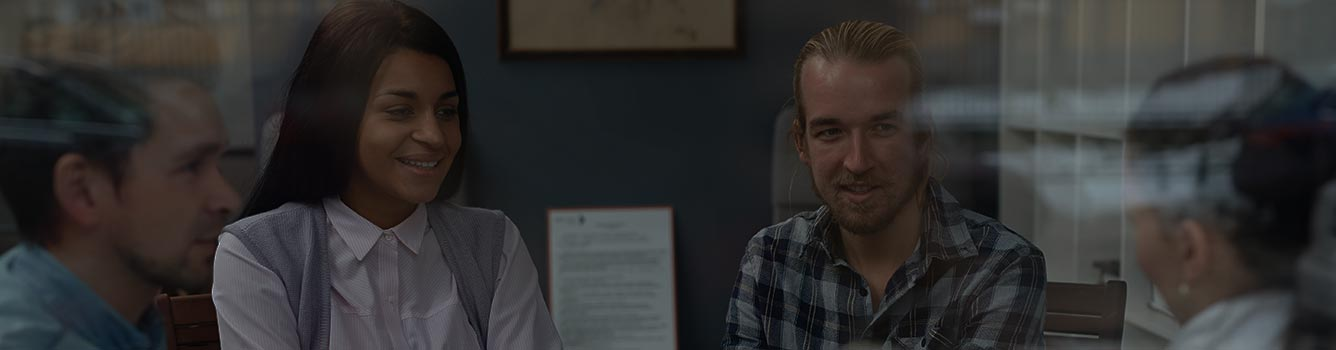
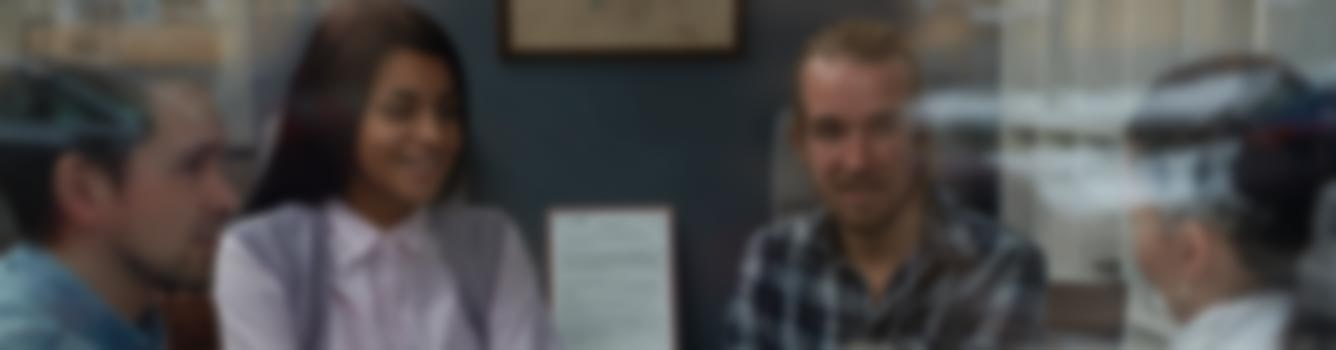
-all header images implemented

diff --git a/AzureHostingTestBlankMVC/contact.html b/AzureHostingTestBlankMVC/contact.html
@@ -27,57 +27,59 @@
         <!--Header-->
         <header id="header-nav">
             <!--Navigation Bar-->
-            <nav id="navbar"
-                 class="div-page div-layout">
-                <a href="index.html">
-                    <div class="div-hflow-left div-logo">
-                        <img class="img-logo div-absolute-centered"
-                             src="assets/images/logo_1.svg"
-                             alt="company log" />
-                        <!--Source: iStock-->
-                    </div>
-                </a>
-                <div class="div-hflow-right div-navbar-link-container">
-                    <a href="contact.html">
-                        <div class="div-vertical-center div-navbar-link div-navbar-link-cta"
-                             id="contactnav">
-                            <p class="font-navbar">CONTACT</p>
-                        </div>
-                    </a>
-                </div>
-                <div class="div-hflow-right div-navbar-link-container">
-                    <a href="work.html">
-                        <div class="div-vertical-center div-navbar-link"
-                             id="worknav">
-                            <p class="font-navbar">WORK</p>
-                        </div>
-                    </a>
-                </div>
-                <div class="div-hflow-right div-navbar-link-container">
-                    <a href="services.html">
-                        <div class="div-vertical-center div-navbar-link"
-                             id="servicesnav">
-                            <p class="font-navbar">SERVICES</p>
-                        </div>
-                    </a>
-                </div>
-                <div class="div-hflow-right div-navbar-link-container">
-                    <a href="about.html">
-                        <div class="div-vertical-center div-navbar-link"
-                             id="aboutnav">
-                            <p class="font-navbar">ABOUT</p>
-                        </div>
-                    </a>
-                </div>
-                <div class="div-hflow-right div-navbar-link-container">
+            <div id="navbar-wrapper">
+                <nav id="navbar"
+                     class="div-page div-layout navbar-transparent">
                     <a href="index.html">
-                        <div class="div-vertical-center div-navbar-link"
-                             id="welcomenav">
-                            <p class="font-navbar">HOME</p>
+                        <div class="div-hflow-left div-logo">
+                            <img class="img-logo div-absolute-centered"
+                                 src="assets/images/company-logo.svg"
+                                 alt="company logo"/>
+                            <!--Source: iStock-->
                         </div>
                     </a>
-                </div>
-            </nav>
+                    <div class="div-hflow-right div-navbar-link-container">
+                        <a href="contact.html">
+                            <div class="div-vertical-center div-navbar-link div-navbar-link-cta"
+                                 id="contactnav">
+                                <p class="font-navbar">CONTACT</p>
+                            </div>
+                        </a>
+                    </div>
+                    <div class="div-hflow-right div-navbar-link-container">
+                        <a href="work.html">
+                            <div class="div-vertical-center div-navbar-link"
+                                 id="worknav">
+                                <p class="font-navbar">WORK</p>
+                            </div>
+                        </a>
+                    </div>
+                    <div class="div-hflow-right div-navbar-link-container">
+                        <a href="services.html">
+                            <div class="div-vertical-center div-navbar-link"
+                                 id="servicesnav">
+                                <p class="font-navbar">SERVICES</p>
+                            </div>
+                        </a>
+                    </div>
+                    <div class="div-hflow-right div-navbar-link-container">
+                        <a href="about.html">
+                            <div class="div-vertical-center div-navbar-link"
+                                 id="aboutnav">
+                                <p class="font-navbar">ABOUT</p>
+                            </div>
+                        </a>
+                    </div>
+                    <div class="div-hflow-right div-navbar-link-container">
+                        <a href="index.html">
+                            <div class="div-vertical-center div-navbar-link"
+                                 id="welcomenav">
+                                <p class="font-navbar">HOME</p>
+                            </div>
+                        </a>
+                    </div>
+                </nav>
+            </div>
             <!--End Navigation Bar-->
         </header>
         <!--End Header-->

diff --git a/AzureHostingTestBlankMVC/assets/css/site.css b/AzureHostingTestBlankMVC/assets/css/site.css
@@ -350,10 +350,15 @@ body#contact div#contactnav {
 .div-non-welcome-header-image-container {
     width: 100%;
     height: 350px;
-    background-image: url(/assets/images/about/about-young-creative-people-meeting_blur.jpg);
+    background-image: url(/assets/images/about/about-young-creative-people-meeting.jpg);
     background-size: cover
 }
 
 .div-nav-opacity-trigger {
     /*only for triggering navbar opacity changes*/
+}
+
+.welcome-section {
+    height: 100%;
+    width: 100%
 }

diff --git a/AzureHostingTestBlankMVC/services.html b/AzureHostingTestBlankMVC/services.html
@@ -12,7 +12,7 @@
             <div id="services-content-container"
                  class="div-page div-layout">
                 <!--Header Image-->
-                <div class="div-non-welcome-header-image-container">
+                <div class="div-non-welcome-header-image-container services-header-hero-image">
                     <!--Header-->
                     <header id="header-nav">
                         <!--Navigation Bar-->

diff --git a/AzureHostingTestBlankMVC/work.html b/AzureHostingTestBlankMVC/work.html
@@ -12,7 +12,7 @@
             <div id="work-navbar-content-container"
                  class="div-page div-layout">
                 <!--Header Image-->
-                <div class="div-non-welcome-header-image-container">
+                <div class="div-non-welcome-header-image-container work-header-hero-image">
                     <!--Header-->
                     <header id="header-nav">
                         <!--Navigation Bar-->

diff --git a/AzureHostingTestBlankMVC/index.html b/AzureHostingTestBlankMVC/index.html
@@ -73,7 +73,7 @@
                 </header>
                 <!--End Header-->
                 <!--Welcome Section-->
-                <section class="section">
+                <section class="welcome-section">
                     <div class="div-layout div-welcome-content">
                         <div class="div-layout div-welcome-content-text">
                             <article>

diff --git a/AzureHostingTestBlankMVC/assets/css/services.css b/AzureHostingTestBlankMVC/assets/css/services.css
@@ -98,3 +98,8 @@ article {
     height: 150px;
     width: 150px
 }
+
+.services-header-hero-image {
+    background-image: url(/assets/images/services/woman-tapping-the-keyboard-of-a-laptop.jpg);
+    background-size: cover
+}

diff --git a/AzureHostingTestBlankMVC/assets/css/work.css b/AzureHostingTestBlankMVC/assets/css/work.css
@@ -63,3 +63,8 @@
 .work-content-work-text {
     font-weight: 700
 }
+
+.work-header-hero-image {
+    background-image: url(/assets/images/work/web-designer-looking-at-computer.jpg);
+    background-size: cover
+}
